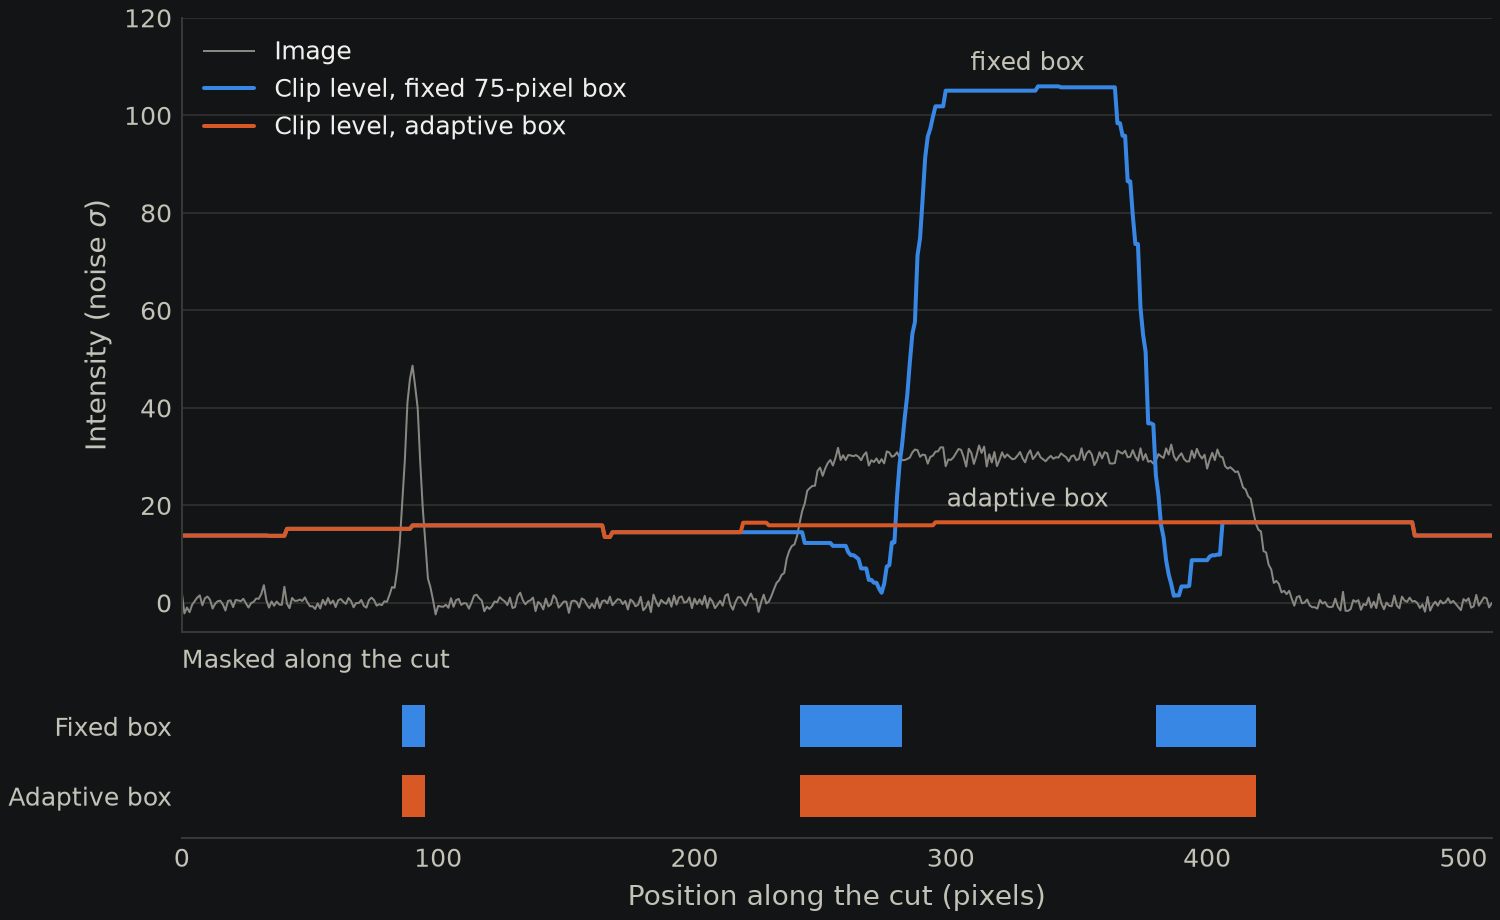
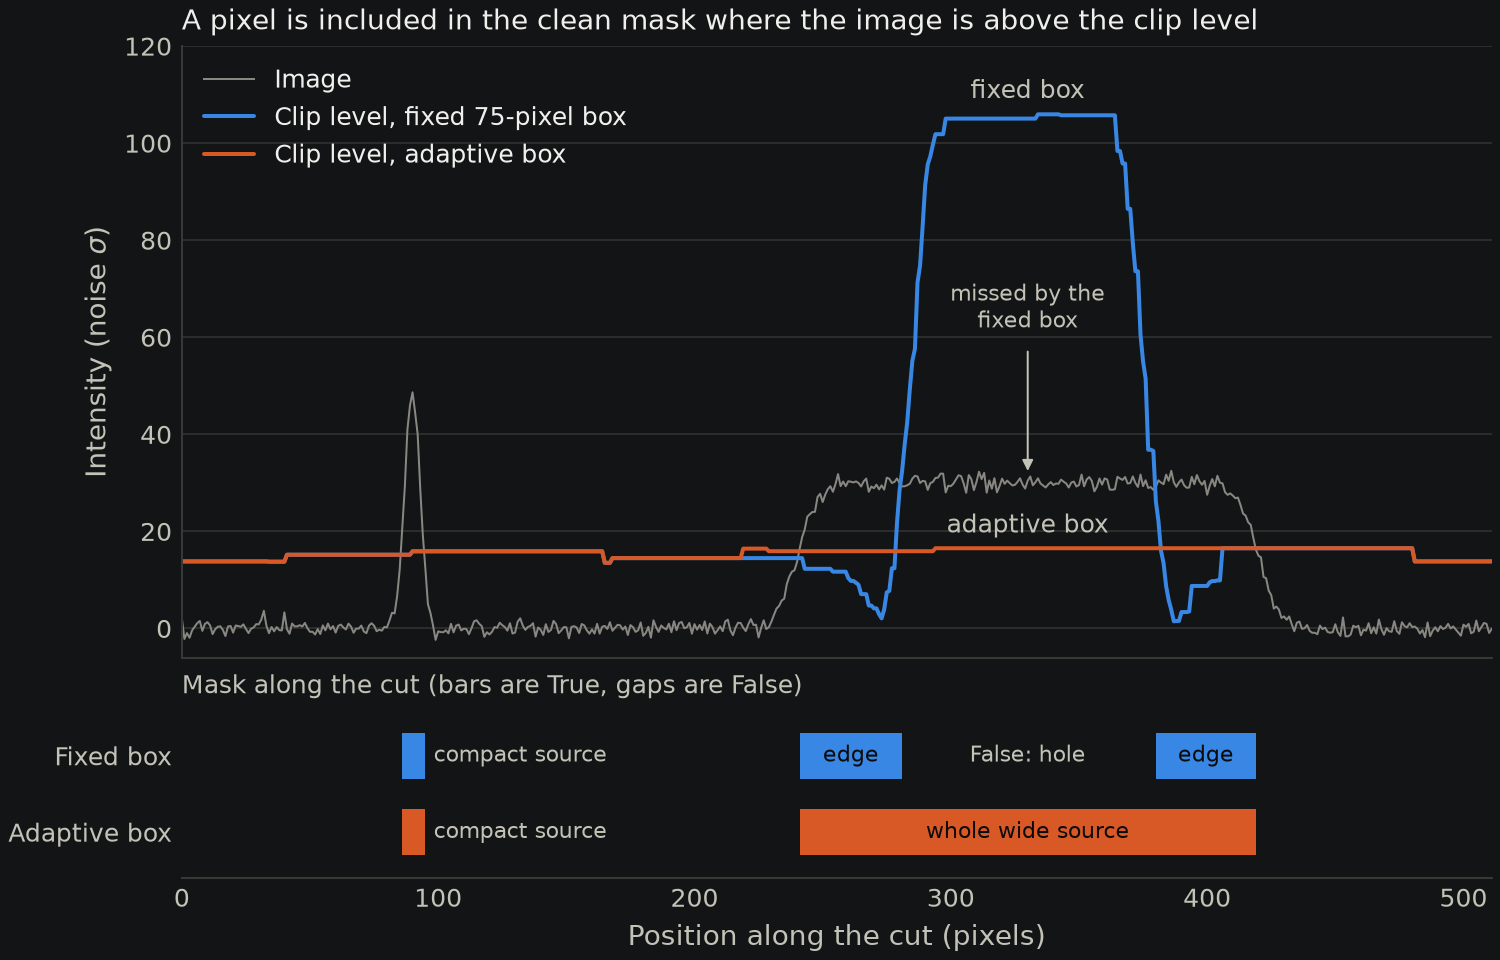
redone figure

diff --git a/docs/scripts/adaptive_mac_figure.py b/docs/scripts/adaptive_mac_figure.py
@@ -1,0 +1,304 @@
+"""Make the figure in docs/masking.md that shows how the adaptive box size changes
+the minimum absolute clip (MAC). From the root of the repository run:
+
+    uv run --with matplotlib python docs/scripts/adaptive_mac_figure.py
+
+which writes a light and a dark version of the figure to docs/_static, one for each
+of the furo themes.
+"""
+
+from __future__ import annotations
+
+from pathlib import Path
+
+import numpy as np
+from matplotlib.backends.backend_agg import FigureCanvasAgg
+from matplotlib.figure import Figure
+
+from eye_patch.mac import minimum_absolute_clip, minimum_absolute_clip_threshold
+
+OUTPUT_DIR = Path(__file__).parent.parent / "_static"
+
+# Surfaces of the furo themes, with chart colours validated against each
+THEMES = {
+    "light": {
+        "surface": "#ffffff",
+        "ink": "#0b0b0b",
+        "secondary": "#52514e",
+        "muted": "#898781",
+        "grid": "#e1e0d9",
+        "axis": "#c3c2b7",
+        "fixed": "#2a78d6",
+        "adaptive": "#eb6834",
+    },
+    "dark": {
+        "surface": "#131416",
+        "ink": "#f0efec",
+        "secondary": "#c3c2b7",
+        "muted": "#898781",
+        "grid": "#2c2c2a",
+        "axis": "#383835",
+        "fixed": "#3987e5",
+        "adaptive": "#d95926",
+    },
+}
+
+SHAPE = (512, 512)
+CUT_ROW = 256
+COMPACT_X = 90  # The compact source along the cut
+WIDE_X, WIDE_RADIUS = 330, 90  # The source that is wider than the box
+BOX_SIZE = 75  # The default mac_box_size
+INCREASE_FACTOR = 4.0  # The default base_clip
+ADAPTIVE_MAX_DEPTH = 3
+
+# Line widths in points, which are about 2 and 1 screen pixels at the docs width
+LINE_WIDTH = 1.44
+HAIRLINE_WIDTH = 0.72
+# Text placed on a masked span is one of these, whichever contrasts more with it
+LABEL_INKS = ("#ffffff", "#0b0b0b")
+
+
+def make_image() -> np.ndarray:
+    """Unit noise with a compact source, and a bright source wider than the box"""
+    yy, xx = np.mgrid[: SHAPE[0], : SHAPE[1]]
+    radius = np.hypot(xx - WIDE_X, yy - CUT_ROW)
+    wide = 30.0 / (1 + np.exp((radius - WIDE_RADIUS) / 4))  # Flat topped, soft edged
+    compact = 50.0 * np.exp(-((xx - COMPACT_X) ** 2 + (yy - CUT_ROW) ** 2) / (2 * 3**2))
+    noise = np.random.default_rng(1).normal(size=SHAPE)
+    return noise + wide + compact
+
+
+def masked_spans(mask_row: np.ndarray) -> list[tuple[int, int]]:
+    """The (start, width) of each run of masked pixels"""
+    edges = np.flatnonzero(np.diff(np.concatenate([[0], mask_row.astype(int), [0]])))
+    return [
+        (int(start), int(stop - start))
+        for start, stop in zip(edges[::2], edges[1::2], strict=True)
+    ]
+
+
+def span_name(start: int, width: int) -> str:
+    """Describe the part of the image a masked span covers"""
+    if start <= COMPACT_X < start + width:
+        return "compact source"
+    if start <= WIDE_X < start + width:
+        return "whole wide source"
+    return "edge"
+
+
+def _relative_luminance(colour: str) -> float:
+    """The WCAG relative luminance of a hex colour"""
+    channels = [int(colour[i : i + 2], 16) / 255 for i in (1, 3, 5)]
+    red, green, blue = (
+        c / 12.92 if c <= 0.04045 else ((c + 0.055) / 1.055) ** 2.4 for c in channels
+    )
+    return 0.2126 * red + 0.7152 * green + 0.0722 * blue
+
+
+def _contrast(first: str, second: str) -> float:
+    """The WCAG contrast ratio of two hex colours"""
+    lighter, darker = sorted(
+        (_relative_luminance(first), _relative_luminance(second)), reverse=True
+    )
+    return (lighter + 0.05) / (darker + 0.05)
+
+
+def label_spans(
+    ax,
+    spans: list[tuple[int, int]],
+    row: int,
+    fill: str,
+    colours: dict[str, str],
+    renderer,
+) -> None:
+    """Name each masked span. Should a name not fit inside its span with some
+    padding it is placed just past the end of the span instead."""
+    padding = 6  # Display pixels either side of a name inside a span
+    for start, width in spans:
+        name = span_name(start=start, width=width)
+        label = ax.text(
+            start + width / 2,
+            row,
+            name,
+            ha="center",
+            va="center",
+            fontsize=8,
+            color=max(LABEL_INKS, key=lambda ink: _contrast(ink, fill)),
+            in_layout=False,
+        )
+        left, right = ax.transData.transform([(start, row), (start + width, row)])
+        if label.get_window_extent(renderer).width + 2 * padding > right[0] - left[0]:
+            label.remove()
+            ax.annotate(
+                name,
+                xy=(start + width, row),
+                xytext=(3, 0),
+                textcoords="offset points",
+                ha="left",
+                va="center",
+                fontsize=8,
+                color=colours["secondary"],
+                annotation_clip=False,
+                in_layout=False,
+            )
+
+
+def plot(colours: dict[str, str], path: Path) -> None:
+    """Plot a cut through the image with the clip levels of a fixed and an adaptive
+    box, and the mask each makes"""
+    image = make_image()
+    adaptive_options = {"box_size": BOX_SIZE, "adaptive_max_depth": ADAPTIVE_MAX_DEPTH}
+    clip_levels = {
+        "fixed": INCREASE_FACTOR
+        * minimum_absolute_clip_threshold(image=image, box_size=BOX_SIZE),
+        "adaptive": INCREASE_FACTOR
+        * minimum_absolute_clip_threshold(image=image, **adaptive_options),
+    }
+    masks = {
+        "fixed": minimum_absolute_clip(
+            image=image, increase_factor=INCREASE_FACTOR, box_size=BOX_SIZE
+        ),
+        "adaptive": minimum_absolute_clip(
+            image=image, increase_factor=INCREASE_FACTOR, **adaptive_options
+        ),
+    }
+    x = np.arange(SHAPE[1])
+
+    fig = Figure(figsize=(7.5, 4.8), facecolor=colours["surface"], layout="constrained")
+    profile_ax, mask_ax = fig.subplots(
+        2, 1, sharex=True, gridspec_kw={"height_ratios": (4, 1.1)}
+    )
+    for ax in (profile_ax, mask_ax):
+        ax.set_facecolor(colours["surface"])
+        ax.tick_params(colors=colours["secondary"], labelsize=9, length=0)
+        for side in ("top", "right"):
+            ax.spines[side].set_visible(False)
+        for side in ("left", "bottom"):
+            ax.spines[side].set_color(colours["axis"])
+            ax.spines[side].set_linewidth(HAIRLINE_WIDTH)
+
+    # The top panel states the rule that the bottom panel shows the result of
+    profile_ax.set_title(
+        "A pixel is included in the clean mask where the image is above the clip level",
+        loc="left",
+        fontsize=10,
+        color=colours["ink"],
+    )
+    profile_ax.grid(axis="y", color=colours["grid"], linewidth=HAIRLINE_WIDTH)
+    profile_ax.set_axisbelow(True)
+    profile_ax.plot(
+        x,
+        image[CUT_ROW],
+        color=colours["muted"],
+        linewidth=HAIRLINE_WIDTH,
+        label="Image",
+    )
+    for name, label in (
+        ("fixed", f"Clip level, fixed {BOX_SIZE}-pixel box"),
+        ("adaptive", "Clip level, adaptive box"),
+    ):
+        profile_ax.plot(
+            x,
+            clip_levels[name][CUT_ROW],
+            color=colours[name],
+            linewidth=LINE_WIDTH,
+            solid_capstyle="round",
+            solid_joinstyle="round",
+            label=label,
+        )
+    profile_ax.legend(
+        loc="upper left", frameon=False, fontsize=9, labelcolor=colours["ink"]
+    )
+    # Direct labels where the clip levels separate, in text rather than series colours
+    profile_ax.text(
+        WIDE_X,
+        clip_levels["fixed"][CUT_ROW, WIDE_X] + 3,
+        "fixed box",
+        ha="center",
+        va="bottom",
+        fontsize=9,
+        color=colours["secondary"],
+    )
+    profile_ax.text(
+        WIDE_X,
+        clip_levels["adaptive"][CUT_ROW, WIDE_X] + 2,
+        "adaptive box",
+        ha="center",
+        va="bottom",
+        fontsize=9,
+        color=colours["secondary"],
+    )
+    # Point at the image where it falls below the clip level of the fixed box
+    if not masks["fixed"][CUT_ROW, WIDE_X]:
+        profile_ax.annotate(
+            "missed by the\nfixed box",
+            xy=(WIDE_X, image[CUT_ROW, WIDE_X] + 2),
+            xytext=(WIDE_X, 66),
+            ha="center",
+            va="center",
+            fontsize=8,
+            color=colours["secondary"],
+            arrowprops={
+                "arrowstyle": "-|>",
+                "color": colours["secondary"],
+                "linewidth": HAIRLINE_WIDTH,
+                "shrinkA": 4,
+                "shrinkB": 0,
+            },
+        )
+    profile_ax.set_ylim(-6, 120)
+    profile_ax.set_ylabel(
+        r"Intensity (noise $\sigma$)", fontsize=10, color=colours["secondary"]
+    )
+
+    rows = {"adaptive": 0, "fixed": 1}
+    for name, row in rows.items():
+        mask_ax.broken_barh(
+            masked_spans(masks[name][CUT_ROW]),
+            (row - 0.3, 0.6),
+            facecolors=colours[name],
+        )
+    mask_ax.set_yticks(list(rows.values()), ["Adaptive box", "Fixed box"])
+    mask_ax.set_ylim(-0.6, 1.6)
+    mask_ax.spines["left"].set_visible(False)
+    mask_ax.set_title(
+        "Mask along the cut (bars are True, gaps are False)",
+        loc="left",
+        fontsize=9,
+        color=colours["secondary"],
+    )
+    mask_ax.set_xlim(0, SHAPE[1] - 1)
+    mask_ax.set_xlabel(
+        "Position along the cut (pixels)", fontsize=10, color=colours["secondary"]
+    )
+    # Name the gap the fixed box leaves in the middle of the wide source
+    if not masks["fixed"][CUT_ROW, WIDE_X]:
+        mask_ax.text(
+            WIDE_X,
+            rows["fixed"],
+            "False: hole",
+            ha="center",
+            va="center",
+            fontsize=8,
+            color=colours["secondary"],
+        )
+
+    # The span names are fitted to their spans once the layout is final
+    canvas = FigureCanvasAgg(fig)
+    canvas.draw()
+    for name, row in rows.items():
+        label_spans(
+            ax=mask_ax,
+            spans=masked_spans(masks[name][CUT_ROW]),
+            row=row,
+            fill=colours[name],
+            colours=colours,
+            renderer=canvas.get_renderer(),
+        )
+
+    fig.savefig(path, dpi=200, facecolor=colours["surface"])
+
+
+if __name__ == "__main__":
+    for theme, colours in THEMES.items():
+        plot(colours=colours, path=OUTPUT_DIR / f"adaptive_mac_{theme}.png")

diff --git a/docs/masking.md b/docs/masking.md
@@ -103,14 +103,18 @@ negative pixels). A basic adaptive boxcar size is implemented via the
 :figclass: only-light
 :width: 100%
 
-A cut through an image of unit noise, with a compact source and a bright source
-that is wider than the default 75-pixel box, clipped by the
-{math}`\mathrm{MAC}` with an increase factor of 4. With a fixed box, the rolling
-minimum in the middle of the wide source only sees the source, so the clip level
-rises above it and the middle of the source is not masked. The adaptive box
-(`mac_adaptive_max_depth=3`) doubles in size wherever positive pixels dominate
-it, so the clip level stays at the noise and the whole source is masked. Away
-from the wide source the two clip levels are the same, and their lines overlap.
+The top panel is a cut through an image of unit noise (grey), with a compact
+source and a bright source that is wider than the default 75-pixel box. The blue
+and orange lines are the clip levels of the {math}`\mathrm{MAC}`, with an
+increase factor of 4, from a fixed box and from the adaptive box
+(`mac_adaptive_max_depth=3`). A pixel is included in the clean mask wherever the
+image is above the clip level, and the bottom panel shows the resulting masks along the cut, where
+the bars are True. With a fixed box, the rolling minimum in the middle of the
+wide source only sees the source, so the clip level rises above it and the
+middle of the source is missed, leaving a hole. The adaptive box doubles in size
+wherever positive pixels dominate it, so its clip level stays at the noise and
+the whole source is masked. Away from the wide source the two clip levels are
+the same, and their lines overlap.
 ```
 
 ```{figure} _static/adaptive_mac_dark.png
@@ -118,14 +122,18 @@ from the wide source the two clip levels are the same, and their lines overlap.
 :figclass: only-dark
 :width: 100%
 
-A cut through an image of unit noise, with a compact source and a bright source
-that is wider than the default 75-pixel box, clipped by the
-{math}`\mathrm{MAC}` with an increase factor of 4. With a fixed box, the rolling
-minimum in the middle of the wide source only sees the source, so the clip level
-rises above it and the middle of the source is not masked. The adaptive box
-(`mac_adaptive_max_depth=3`) doubles in size wherever positive pixels dominate
-it, so the clip level stays at the noise and the whole source is masked. Away
-from the wide source the two clip levels are the same, and their lines overlap.
+The top panel is a cut through an image of unit noise (grey), with a compact
+source and a bright source that is wider than the default 75-pixel box. The blue
+and orange lines are the clip levels of the {math}`\mathrm{MAC}`, with an
+increase factor of 4, from a fixed box and from the adaptive box
+(`mac_adaptive_max_depth=3`). A pixel is included in the clean mask wherever the
+image is above the clip level, and the bottom panel shows the resulting masks along the cut, where
+the bars are True. With a fixed box, the rolling minimum in the middle of the
+wide source only sees the source, so the clip level rises above it and the
+middle of the source is missed, leaving a hole. The adaptive box doubles in size
+wherever positive pixels dominate it, so its clip level stays at the noise and
+the whole source is masked. Away from the wide source the two clip levels are
+the same, and their lines overlap.
 ```
 
 The {math}`\mathrm{MAC}` is selected with `MaskingOptions.use_mac`, and may be
